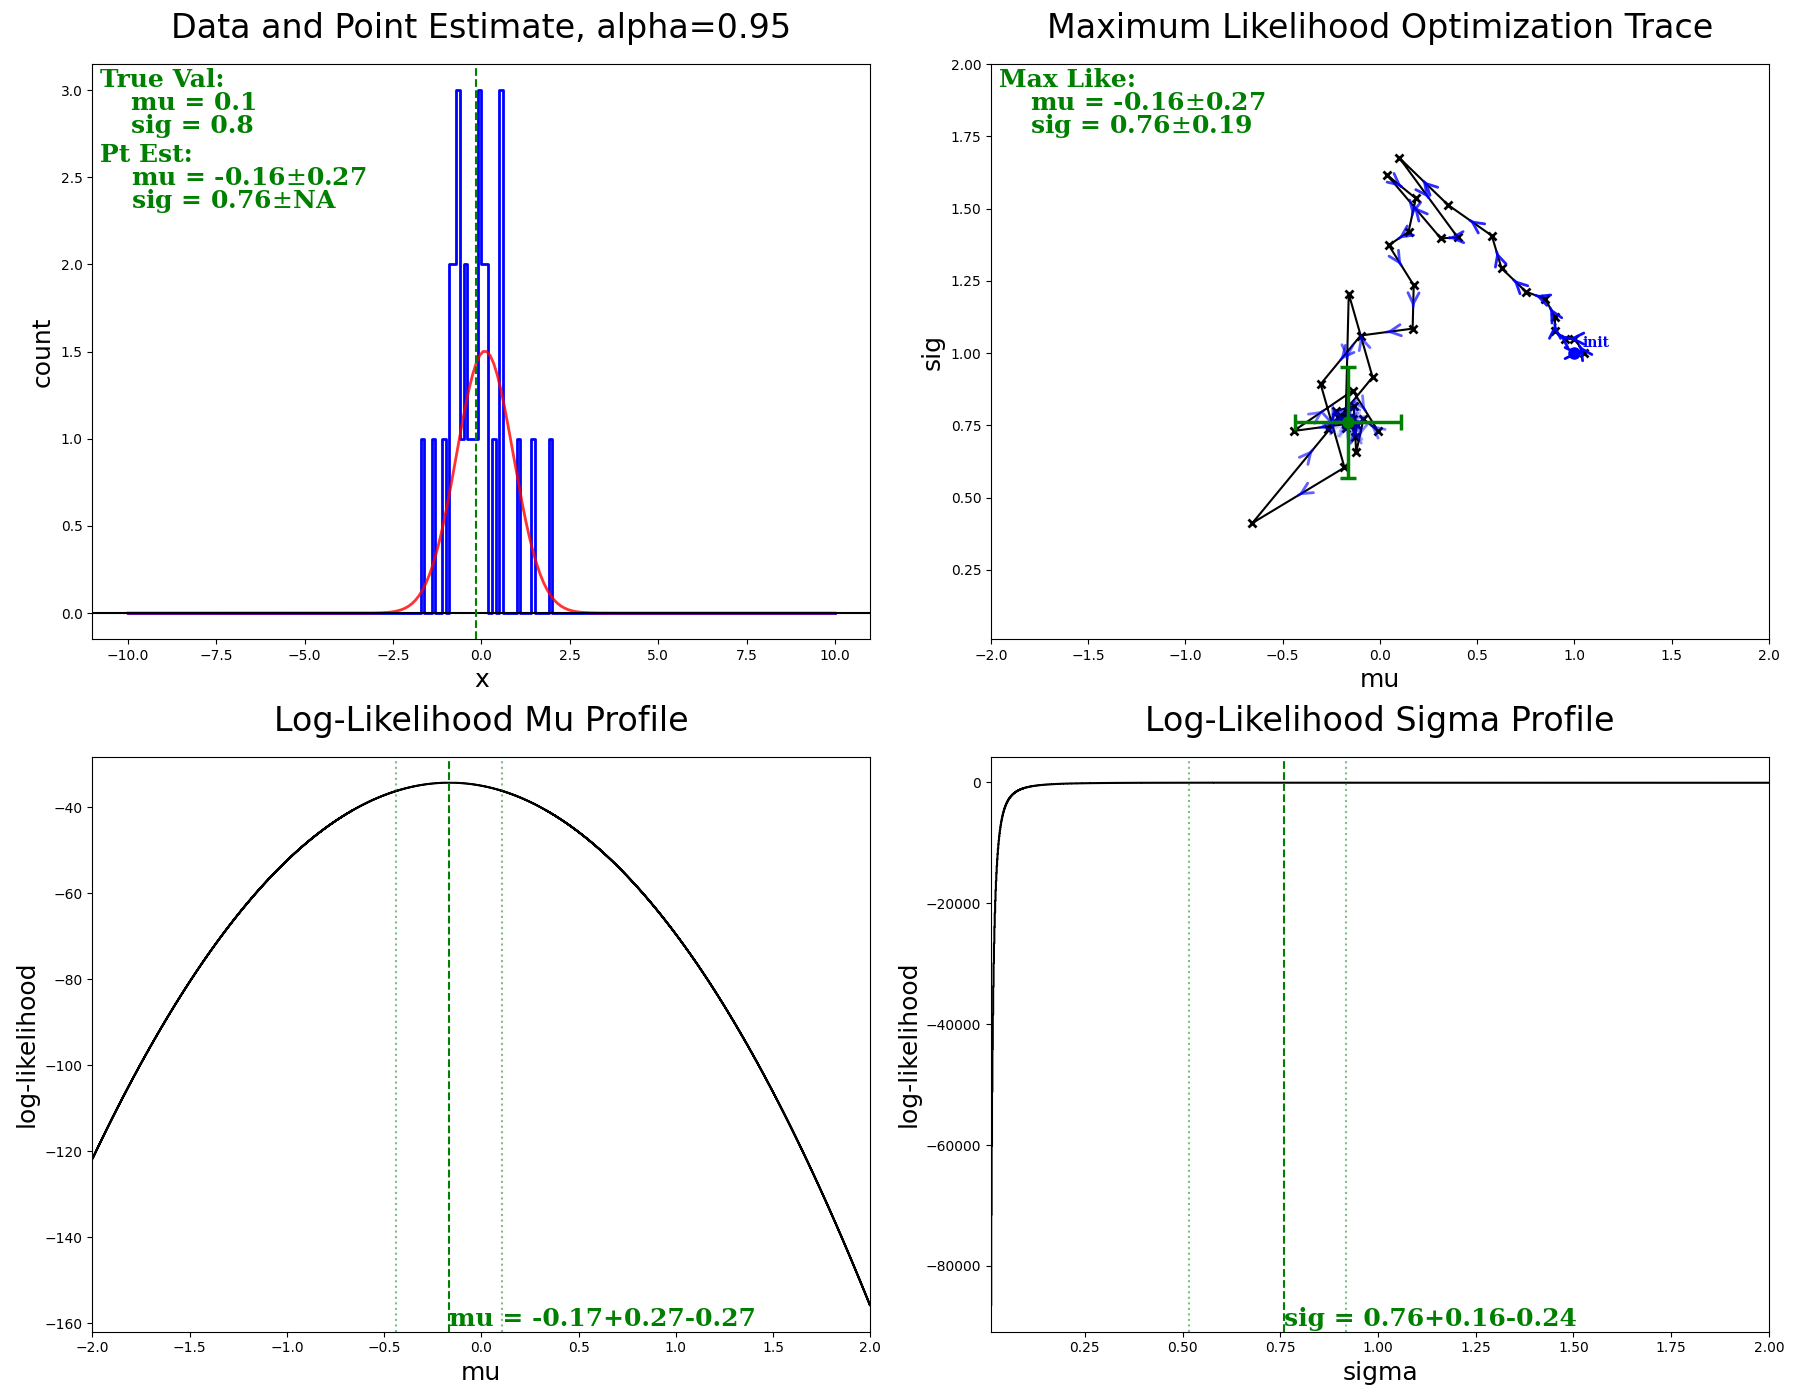
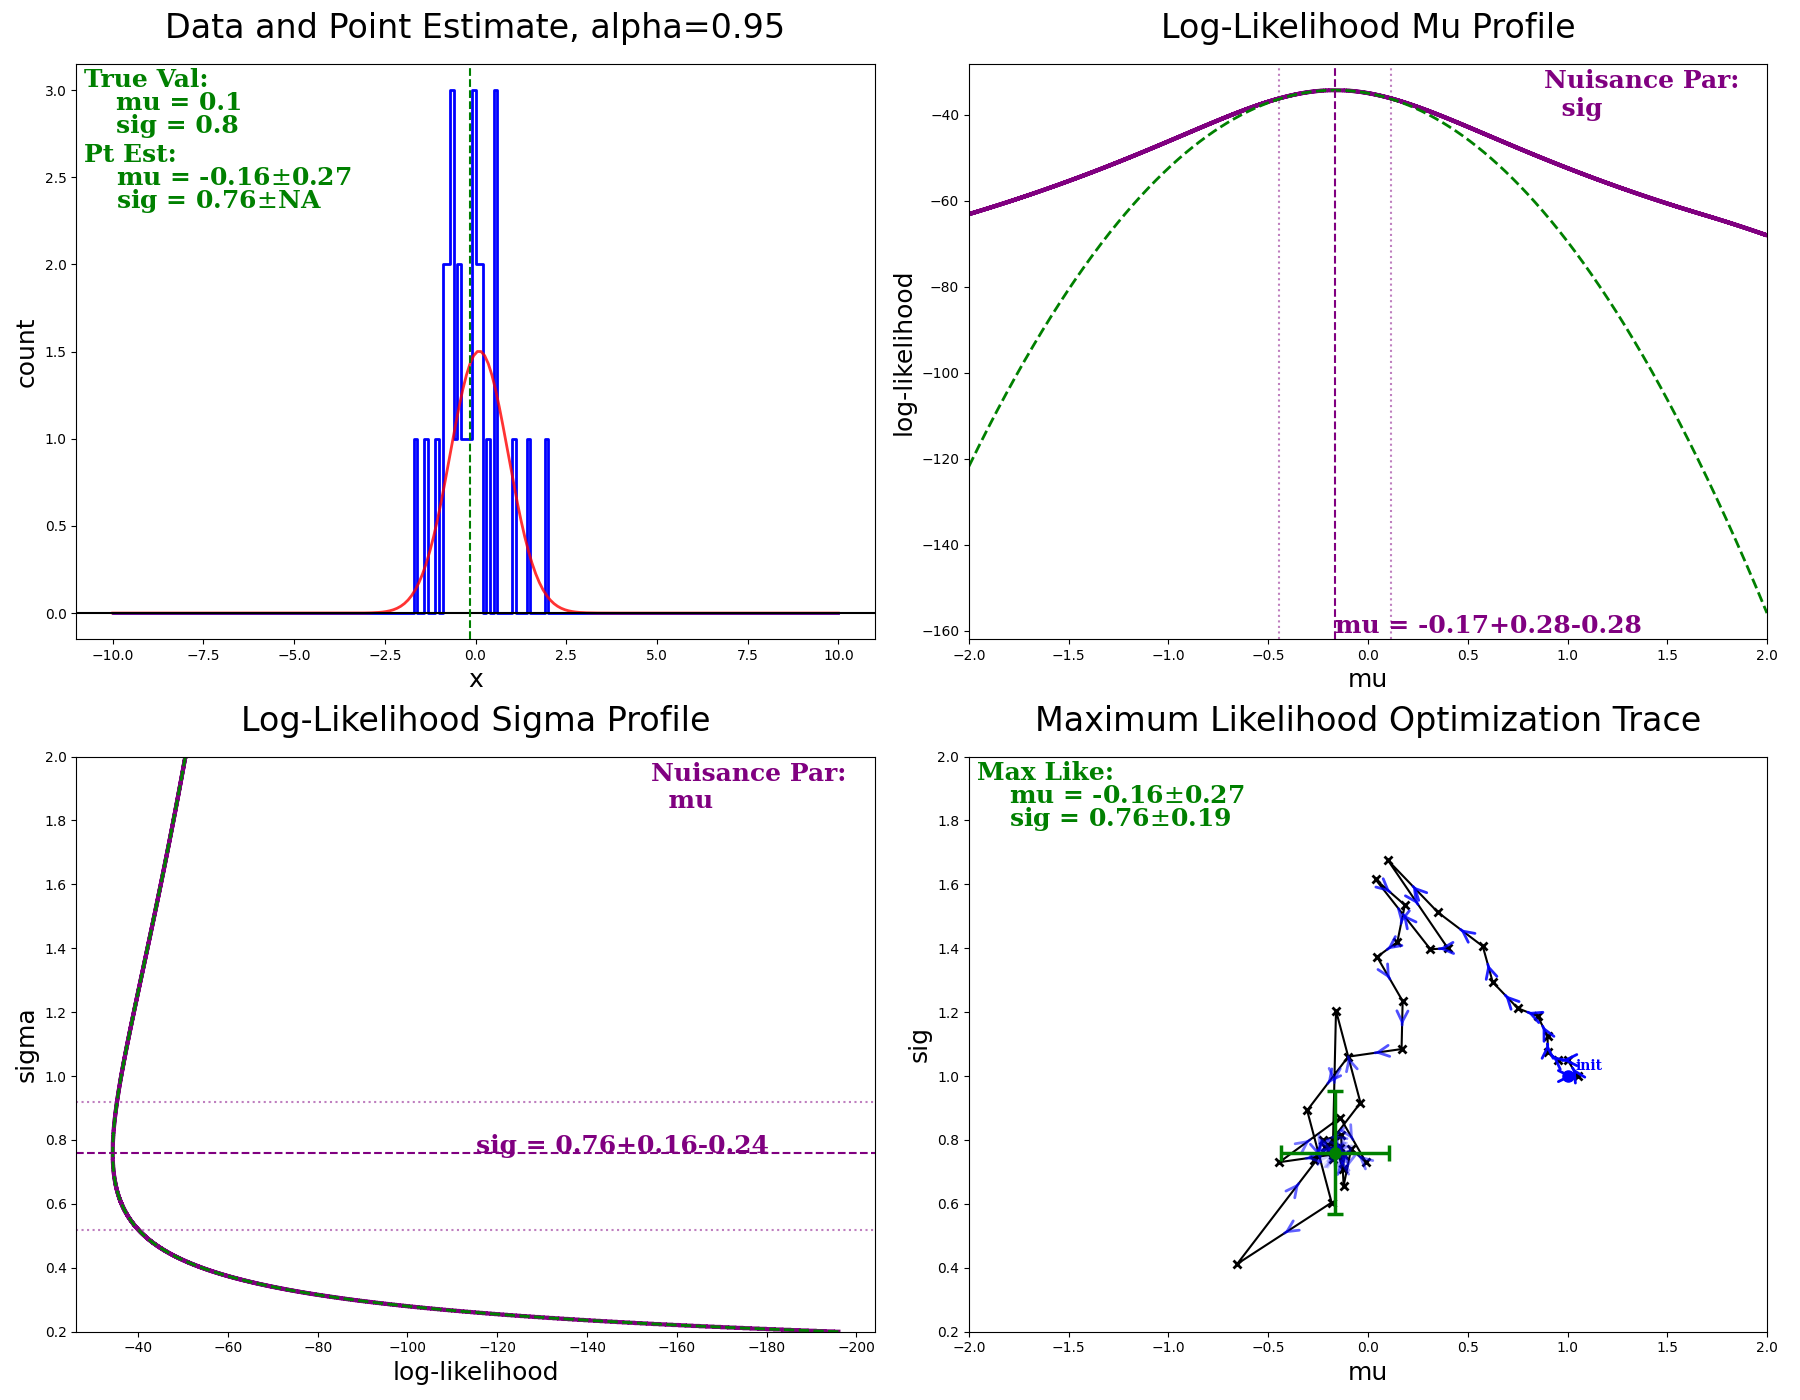
- removing the optNuisanceAllIter option, and include the maximum likelihood profile in the profile likelihood plot instead

diff --git a/profileLikelihoodGaus.py b/profileLikelihoodGaus.py
@@ -49,11 +49,10 @@ def main():
     dataSig = 0.8;
     dataN   = 30;
     
-    alpha              = 0.95;         #significance
-    muRange            = [-2.0, 2.0];   #search range
-    sigRange           = [0.01, 2.0];
-    profileStepSize    = 0.001;
-    optNuisanceAllIter = False;        #false to satistfy likelihood ratio test?
+    alpha           = 0.95;         #significance
+    muRange         = [-2.0, 2.0];  #search range
+    sigRange        = [0.2, 2.0];
+    profileStepSize = 0.001;
 #data
     nbins = np.linspace(rangeX[0], rangeX[1], binN);
     dataPDF = np.random.normal(dataMu, dataSig, dataN);
@@ -82,7 +81,8 @@ def main():
     if verbosity >= 1:
         print("Likelihood profiling for mu...");
     muProfile = [];
-    muLikelihood = [];
+    muProfileLikelihood = [];
+    muMaxLikelihoodProfile = [];
     muOpt = [0, 0.0, 0.0, -pow(10, 24)];
     muRangeN = int((muRange[1]-muRange[0])/profileStepSize);
     for i in (tqdm(range(muRangeN)) if verbosity>=1 else range(muRangeN)):
@@ -96,19 +96,18 @@ def main():
         muProfile.append(mu);
         if optLikelihood > muOpt[3]:
             muOpt = [i, mu, sig, optLikelihood];
-        if optNuisanceAllIter == True: 
-            muLikelihood.append(optLikelihood);
-    if optNuisanceAllIter == False:
-        for i in range(muRangeN):
-            mu = muRange[0] + i*profileStepSize;
-            negLL = negLogLikeMu(mu, dataPDF);
-            optLikelihood = -1.0*negLL(muOpt[2]);
-            muLikelihood.append(optLikelihood);
+        muProfileLikelihood.append(optLikelihood);
+    for i in range(muRangeN):
+        mu = muRange[0] + i*profileStepSize;
+        negLL = negLogLikeMu(mu, dataPDF);
+        optLikelihood = -1.0*negLL(maxLikeSig);
+        muMaxLikelihoodProfile.append(optLikelihood);
 
     if verbosity >= 1:
         print("Likelihood profiling for sigma...");
     sigProfile = [];
-    sigLikelihood = [];
+    sigProfileLikelihood = [];
+    sigMaxLikelihoodProfile = [];
     sigOpt = [0, 0.0, 0.0, -pow(10, 24)];
     sigRangeN = int((sigRange[1]-sigRange[0])/profileStepSize);
     for i in (tqdm(range(sigRangeN)) if verbosity>=1 else range(sigRangeN)):
@@ -122,14 +121,12 @@ def main():
         sigProfile.append(sig);
         if optLikelihood > sigOpt[3]:
             sigOpt = [i, mu, sig, optLikelihood];
-        if optNuisanceAllIter == True:    
-            sigLikelihood.append(optLikelihood);
-    if optNuisanceAllIter == False:
-        for i in range(sigRangeN):
-            sig = sigRange[0] + i*profileStepSize;
-            negLL = negLogLikeSig(sig, dataPDF);
-            optLikelihood = -1.0*negLL(sigOpt[1]);
-            sigLikelihood.append(optLikelihood);
+        sigProfileLikelihood.append(optLikelihood);
+    for i in range(sigRangeN):
+        sig = sigRange[0] + i*profileStepSize;
+        negLL = negLogLikeSig(sig, dataPDF);
+        optLikelihood = -1.0*negLL(maxLikeMu);
+        sigMaxLikelihoodProfile.append(optLikelihood);
 #alpha significance from likelihood ratio test for profile likelihood
     chi2ppf = stats.chi2.ppf(alpha, 1);
     muConfInt = [0.0, 0.0];
@@ -141,7 +138,7 @@ def main():
         if muOpt[0] + stepIdx > muRangeN:
             print("WARNING: Please increase the search range for mu.");
             break;
-        logLikelihood = muLikelihood[muOpt[0] + stepIdx];
+        logLikelihood = muProfileLikelihood[muOpt[0] + stepIdx];
     muConfInt[0] = abs(muProfile[muOpt[0] + stepIdx] - muOpt[1]);
     stepIdx = 0;
     logLikelihood = muOpt[3];
@@ -150,7 +147,7 @@ def main():
         if muOpt[0] - stepIdx < 0:
             print("WARNING: Please increase the search range for mu.");
             break;
-        logLikelihood = muLikelihood[muOpt[0] - stepIdx];
+        logLikelihood = muProfileLikelihood[muOpt[0] - stepIdx];
     muConfInt[1] = abs(muProfile[muOpt[0] - stepIdx] - muOpt[1]);
 
     sigConfInt = [0.0, 0.0];
@@ -161,7 +158,7 @@ def main():
         if sigOpt[0] + stepIdx > sigRangeN:
             print("WARNING: Please increase the search range for sigma.");
             break;
-        logLikelihood = sigLikelihood[sigOpt[0] + stepIdx];
+        logLikelihood = sigProfileLikelihood[sigOpt[0] + stepIdx];
     sigConfInt[0] = abs(sigProfile[sigOpt[0] + stepIdx] - sigOpt[2]);
     stepIdx = 0;
     logLikelihood = sigOpt[3];
@@ -170,7 +167,7 @@ def main():
         if sigOpt[0] - stepIdx < 0:
             print("WARNING: Please increase the search range for sigma.");
             break;
-        logLikelihood = sigLikelihood[sigOpt[0] - stepIdx];
+        logLikelihood = sigProfileLikelihood[sigOpt[0] - stepIdx];
     sigConfInt[1] = abs(sigProfile[sigOpt[0] - stepIdx] - sigOpt[2]);
 #alpha confidence convertion
     alphaCov = alpha + (1.0 - alpha)/2.0;
@@ -195,7 +192,8 @@ def main():
     ax0.axhline(y=0, color="black", linestyle="-");
     ax0.axvline(x=np.average(dataPDF), ymin=0, ymax=1, color="green", \
                 linestyle="--");
-    ax0.set_title("Data and Point Estimate, alpha="+str(alpha), fontsize=24, y=1.03);
+    ax0.set_title("Data and Point Estimate, alpha="+str(alpha),\
+                  fontsize=24, y=1.03);
     ax0.set_xlabel("x", fontsize=18);
     ax0.set_ylabel("count", fontsize=18);
     ax0.set_xlim(rangeX[0]-1.0, rangeX[1]+1.0);
@@ -222,7 +220,7 @@ def main():
     ax0.text(xmin+0.05*(xmax-xmin),ymin+0.79*(ymax-ymin),strTemp,fontdict=font);
     strTemp = "sig = " + str(valSig0r) + "$\pm$" + str(errSig0r);
     ax0.text(xmin+0.05*(xmax-xmin),ymin+0.75*(ymax-ymin),strTemp,fontdict=font);
-    #plot 1
+    #plot 3
     #idxList = np.unique(np.array(valTrace), axis=0, return_index=True)[1];
     #valTrace = [valTrace[idx] for idx in sorted(idxList)];
     tracePlotTolerance = pow(10, -3);
@@ -237,12 +235,12 @@ def main():
         
     xList = [trace[0] for trace in plotTrace];
     yList = [trace[1] for trace in plotTrace];
-    ax1.plot(xList, yList, "-x", color="black", markersize=6, markeredgewidth=2);
-    ax1.set_title("Maximum Likelihood Optimization Trace", fontsize=24, y=1.03);
-    ax1.set_xlabel("mu", fontsize=18);
-    ax1.set_ylabel("sig", fontsize=18);
-    ax1.set_xlim(muRange[0], muRange[1]);
-    ax1.set_ylim(sigRange[0], sigRange[1]);
+    ax3.plot(xList, yList, "-x", color="black", markersize=6, markeredgewidth=2);
+    ax3.set_title("Maximum Likelihood Optimization Trace", fontsize=24, y=1.03);
+    ax3.set_xlabel("mu", fontsize=18);
+    ax3.set_ylabel("sig", fontsize=18);
+    ax3.set_xlim(muRange[0], muRange[1]);
+    ax3.set_ylim(sigRange[0], sigRange[1]);
 
     #https://stackoverflow.com/questions/58342419
     dataframe = pd.DataFrame.from_dict({"x": xList, "y": yList});
@@ -257,12 +255,12 @@ def main():
     xdir = x1-x0;
     ydir = y1-y0;
     for i, (X, Y, dX, dY) in enumerate(zip(xpos, ypos, xdir, ydir)):
-        ax1.annotate("", xytext=(X,Y), xy=(X+0.001*dX,Y+0.001*dY), size=20,\
+        ax3.annotate("", xytext=(X,Y), xy=(X+0.001*dX,Y+0.001*dY), size=20,\
                      arrowprops=dict(arrowstyle="->",color="blue",linewidth=2,\
                                      alpha=(1.0-1.0*i/len(xpos))));
-    ax1.plot(xList[0], yList[0], "ro", color="blue", markersize=8, zorder=5); 
-    ax1.plot(xList[-1], yList[-1], "ro", color="green", markersize=8, zorder=5);
-    ax1.errorbar(xList[-1], yList[-1], xerr=maxErrMu, yerr=maxErrSig,\
+    ax3.plot(xList[0],  yList[0],  "ro", color="blue", markersize=8, zorder=5); 
+    ax3.plot(xList[-1], yList[-1], "ro", color="green", markersize=8, zorder=5);
+    ax3.errorbar(xList[-1], yList[-1], xerr=maxErrMu, yerr=maxErrSig,\
                  color="green", linewidth=2.5, ls="none", zorder=5,\
                  capsize=6, markeredgewidth=2.5);
 
@@ -271,60 +269,71 @@ def main():
     maxErrMu1r   = ("{:." + str(digit1) + "f}").format(maxErrMu);
     maxLikeSig1r = ("{:." + str(digit1) + "f}").format(maxLikeSig);
     maxErrSig1r  = ("{:." + str(digit1) + "f}").format(maxErrSig);
-    xmin, xmax = ax1.get_xlim();
-    ymin, ymax = ax1.get_ylim();
+    xmin, xmax = ax3.get_xlim();
+    ymin, ymax = ax3.get_ylim();
     font = {"family": "serif", "color": "blue", "weight": "bold", "size": 10};
-    ax1.text(valTrace[0][0]+0.01*(xmax-xmin),\
+    ax3.text(valTrace[0][0]+0.01*(xmax-xmin),\
              valTrace[0][1]+0.01*(ymax-ymin), "init", fontdict=font);
     font = {"family": "serif", "color": "green", "weight": "bold", "size": 18};
     strTemp = "Max Like: ";
-    ax1.text(xmin+0.01*(xmax-xmin),ymin+0.96*(ymax-ymin),strTemp,fontdict=font);
+    ax3.text(xmin+0.01*(xmax-xmin),ymin+0.96*(ymax-ymin),strTemp,fontdict=font);
     strTemp = "mu = " + str(maxLikeMu1r) + "$\pm$" + str(maxErrMu1r);
-    ax1.text(xmin+0.05*(xmax-xmin),ymin+0.92*(ymax-ymin),strTemp,fontdict=font);
+    ax3.text(xmin+0.05*(xmax-xmin),ymin+0.92*(ymax-ymin),strTemp,fontdict=font);
     strTemp = "sig = " + str(maxLikeSig1r) + "$\pm$" + str(maxErrSig1r);
-    ax1.text(xmin+0.05*(xmax-xmin),ymin+0.88*(ymax-ymin),strTemp,fontdict=font);
-    #plot 2
-    ax2.plot(muProfile, muLikelihood, alpha=1.0, color="black", ls="steps-mid",\
-             zorder=0);
-    ax2.set_title("Log-Likelihood Mu Profile", fontsize=24, y=1.03);
-    ax2.set_xlabel("mu", fontsize=18);
-    ax2.set_ylabel("log-likelihood", fontsize=18);
-    ax2.set_xlim(muRange[0], muRange[1]);
+    ax3.text(xmin+0.05*(xmax-xmin),ymin+0.88*(ymax-ymin),strTemp,fontdict=font);
+    #plot 1
+    ax1.plot(muProfile, muProfileLikelihood, alpha=1.0, color="purple",\
+             linewidth=3, ls="steps-mid", zorder=0);
+    ax1.plot(muProfile, muMaxLikelihoodProfile, alpha=1.0, color="green",\
+             linewidth=2, linestyle="--", ls="steps-mid");
+    ax1.set_title("Log-Likelihood Mu Profile", fontsize=24, y=1.03);
+    ax1.set_xlabel("mu", fontsize=18);
+    ax1.set_ylabel("log-likelihood", fontsize=18);
+    ax1.set_xlim(muRange[0], muRange[1]);
 
-    ax2.axvline(x=muOpt[1], ymin=0, ymax=1, color="green", linestyle="--");
-    ax2.axvline(x=(muOpt[1]-muConfInt[0]), ymin=0, ymax=1, \
-                color="green", alpha=0.5, linestyle=":");
-    ax2.axvline(x=(muOpt[1]+muConfInt[1]), ymin=0, ymax=1, \
-                color="green", alpha=0.5, linestyle=":");
-    ymin, ymax = ax2.get_ylim();
-    font = {"family": "serif", "color": "green", "weight": "bold", "size": 18};
+    ax1.axvline(x=muOpt[1], ymin=0, ymax=1, color="purple", linestyle="--");
+    ax1.axvline(x=(muOpt[1]-muConfInt[0]), ymin=0, ymax=1, \
+                color="purple", alpha=0.5, linestyle=":");
+    ax1.axvline(x=(muOpt[1]+muConfInt[1]), ymin=0, ymax=1, \
+                color="purple", alpha=0.5, linestyle=":");
+    xmin, xmax = ax1.get_xlim();
+    ymin, ymax = ax1.get_ylim();
+    font = {"family": "serif", "color": "purple", "weight": "bold", "size": 18};
     digit2  = -math.floor(math.log10(max(muConfInt))) + 1;
     valMu2r  = ("{:." + str(digit2) + "f}").format(muOpt[1]);
     errMu2rN = ("{:." + str(digit2) + "f}").format(muConfInt[0]);
     errMu2rP = ("{:." + str(digit2) + "f}").format(muConfInt[1]);
     strTemp = "mu = "+str(valMu2r)+"+"+str(errMu2rP)+"-"+str(errMu2rN);
-    ax2.text(muOpt[1], ymin+0.01*(ymax-ymin), strTemp, fontdict=font);
-    #plot 3
-    ax3.plot(sigProfile, sigLikelihood, alpha=1.0, color="black", ls="steps-mid",\
-             zorder=0);
-    ax3.set_title("Log-Likelihood Sigma Profile", fontsize=24, y=1.03);
-    ax3.set_xlabel("sigma", fontsize=18);
-    ax3.set_ylabel("log-likelihood", fontsize=18);
-    ax3.set_xlim(sigRange[0], sigRange[1]);
+    ax1.text(muOpt[1], ymin+0.01*(ymax-ymin), strTemp, fontdict=font);
+    strTemp = "Nuisance Par:\n  sig";
+    ax1.text(xmin+0.72*(xmax-xmin), ymin+0.91*(ymax-ymin), strTemp,fontdict=font);
+    #plot 2
+    ax2.plot(sigProfileLikelihood, sigProfile, alpha=1.0, color="purple",\
+             linewidth=3, ls="steps-mid", zorder=0);
+    ax2.plot(sigMaxLikelihoodProfile, sigProfile, alpha=1.0, color="green",\
+             linewidth=2, linestyle="--", ls="steps-mid");
+    ax2.set_title("Log-Likelihood Sigma Profile", fontsize=24, y=1.03);
+    ax2.set_xlabel("log-likelihood", fontsize=18);
+    ax2.set_ylabel("sigma", fontsize=18);
+    ax2.set_ylim(sigRange[0], sigRange[1]);
+    
 
-    ax3.axvline(x=sigOpt[2], ymin=0, ymax=1, color="green", linestyle="--");
-    ax3.axvline(x=(sigOpt[2]-sigConfInt[0]), ymin=0, ymax=1, \
-                color="green", alpha=0.5, linestyle=":");
-    ax3.axvline(x=(sigOpt[2]+sigConfInt[1]), ymin=0, ymax=1, \
-                color="green", alpha=0.5, linestyle=":");
-    ymin, ymax = ax3.get_ylim();
-    font = {"family": "serif", "color": "green", "weight": "bold", "size": 18};
+    ax2.axhline(y=sigOpt[2], xmin=0, xmax=1, color="purple", linestyle="--");
+    ax2.axhline(y=(sigOpt[2]-sigConfInt[0]), xmin=0, xmax=1, \
+                color="purple", alpha=0.5, linestyle=":");
+    ax2.axhline(y=(sigOpt[2]+sigConfInt[1]), xmin=0, xmax=1, \
+                color="purple", alpha=0.5, linestyle=":");
+    ax2.invert_xaxis();
+    xmin, xmax = ax2.get_xlim();
+    ymin, ymax = ax2.get_ylim();
     digit3  = -math.floor(math.log10(max(sigConfInt))) + 1;
     valSig3r  = ("{:." + str(digit3) + "f}").format(sigOpt[2]);
     errSig3rN = ("{:." + str(digit3) + "f}").format(sigConfInt[0]);
     errSig3rP = ("{:." + str(digit3) + "f}").format(sigConfInt[1]);
     strTemp = "sig = "+str(valSig3r)+"+"+str(errSig3rP)+"-"+str(errSig3rN);
-    ax3.text(sigOpt[2], ymin+0.01*(ymax-ymin), strTemp, fontdict=font);
+    ax2.text(xmin+0.5*(xmax-xmin), sigOpt[2], strTemp, fontdict=font);
+    strTemp = "Nuisance Par:\n  mu";
+    ax2.text(xmin+0.72*(xmax-xmin), ymin+0.91*(ymax-ymin), strTemp,fontdict=font);
 
     if verbosity >= 1:
         print("Pt Est: ");
